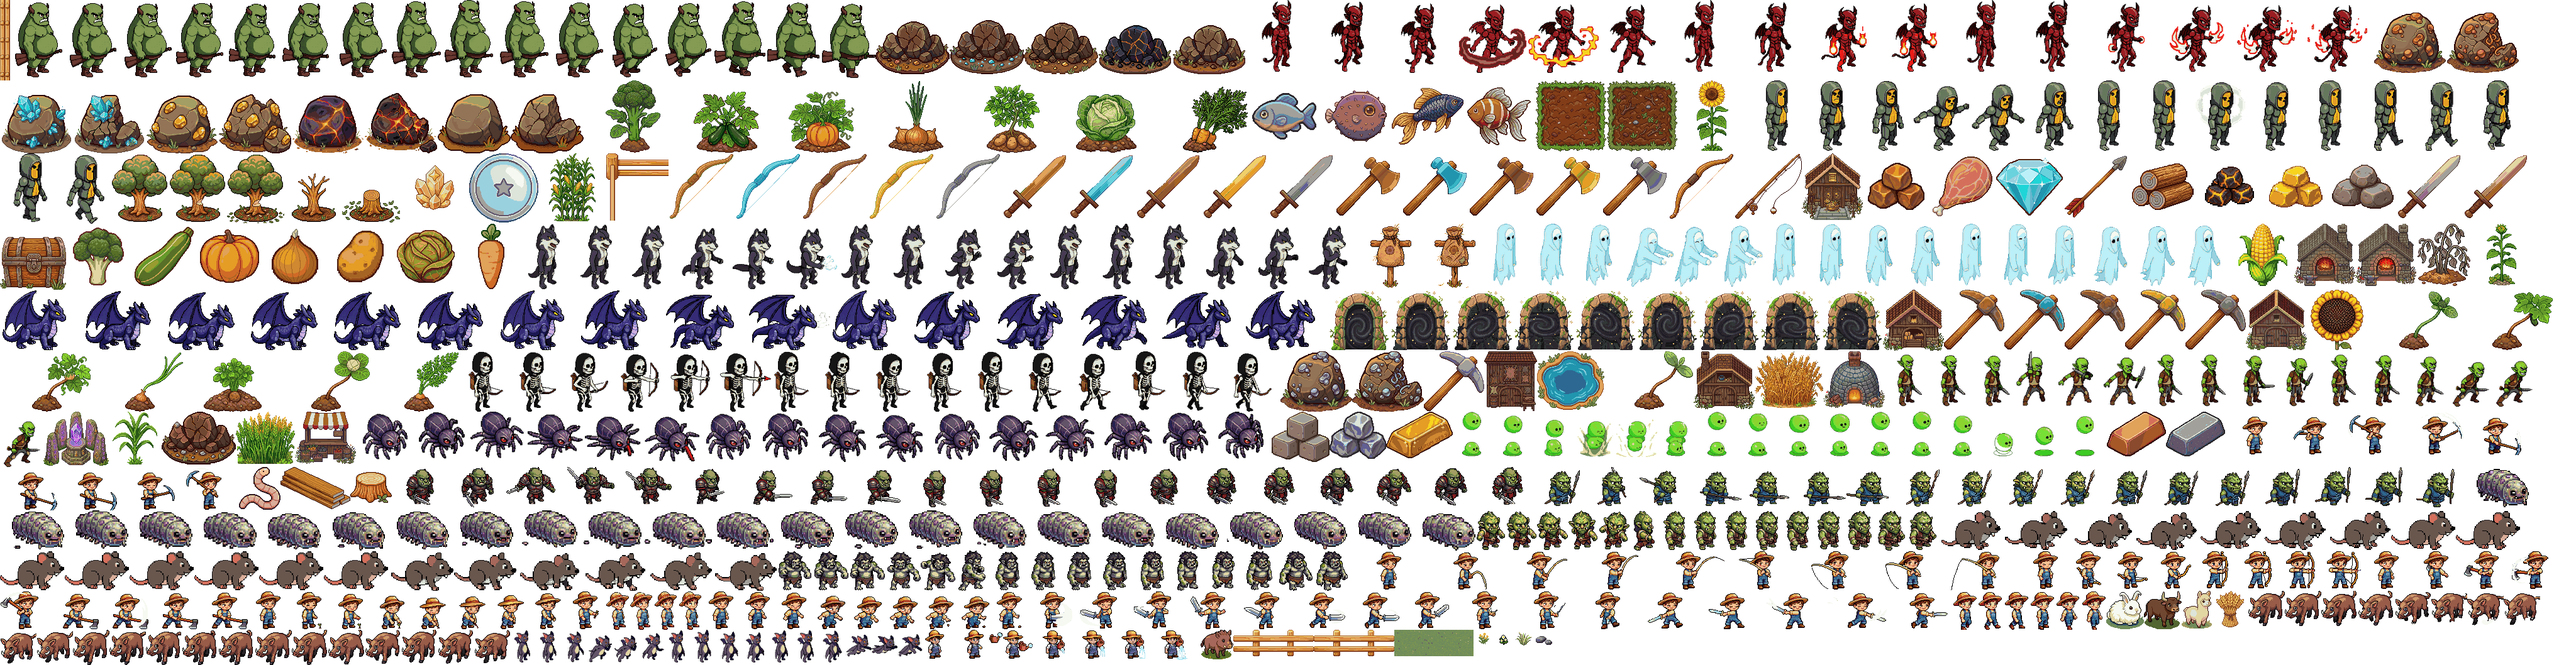
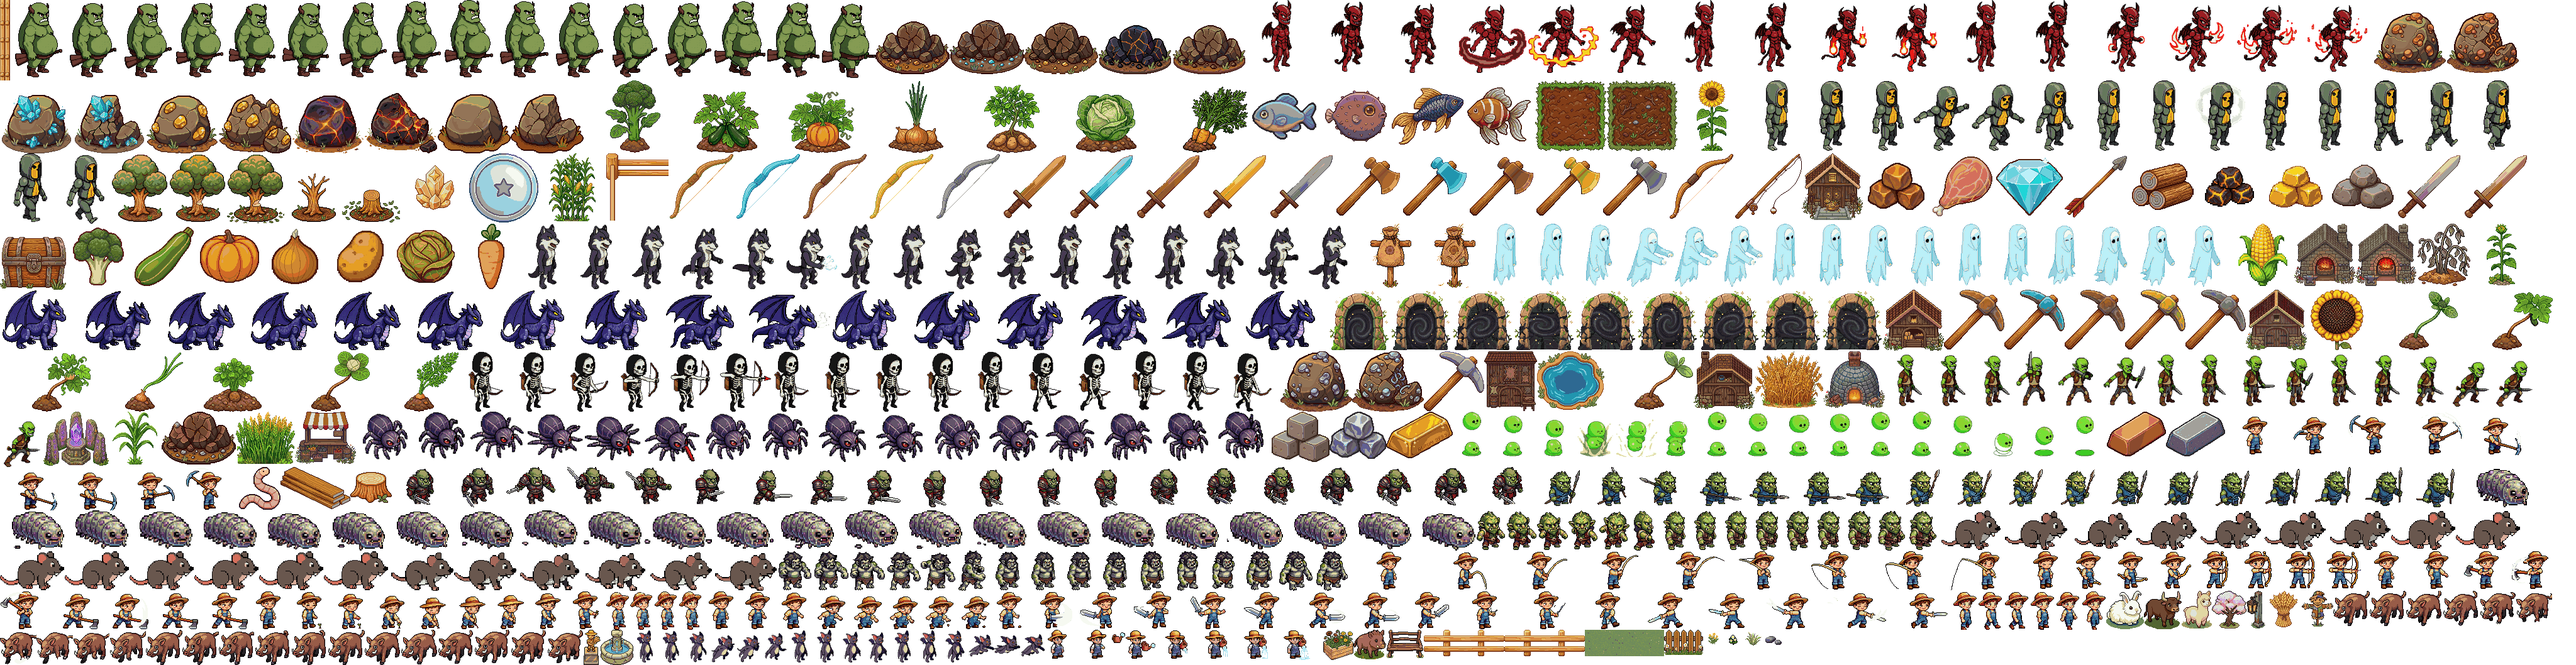
deploy lun 10/08/2026 13:31:54,74

Changed region(s): [[0.0, 0.9357, 0.6875, 1.0], [0.8438, 0.8733, 1.0, 0.9669]]

diff --git a/public/game/farm.js b/public/game/farm.js
@@ -303,7 +303,12 @@ class FarmScene extends Phaser.Scene {
     // clic: si pegás a un objeto, caminá hacia él e interactuá; si no, movete al punto
     this.input.on("pointerdown", (pt) => {
       if (pt.rightButtonDown()) {
-        if (GF.uiOpen || GF.editMode) return;
+        if (GF.editMode) {   // en edición el clic derecho levanta el adorno que haya abajo (vuelve a la bolsa)
+          const ad = this.adornoEnPunto(pt.worldX, pt.worldY);
+          if (ad) this.levantarAdorno(ad);
+          return;
+        }
+        if (GF.uiOpen) return;
         const wx = pt.worldX, wy = pt.worldY;
         for (const pl of this.plots) {
           if (Math.abs(wx - pl.cx) < T / 2 && Math.abs(wy - pl.by) < T / 2) {
@@ -313,8 +318,12 @@ class FarmScene extends Phaser.Scene {
         }
         return;
       }
-      if (GF.editMode) {   // modo edición: agarrar objeto, parcela o laguna bajo el cursor
+      if (GF.editMode) {   // modo edición: agarrar adorno, objeto, parcela o laguna bajo el cursor
         const wx = pt.worldX, wy = pt.worldY; let hit = null, bd = 1e9;
+        // los adornos van PRIMERO: son chicos y suelen quedar encima de una parcela o pegados
+        // a un edificio, así que si no se miran antes nunca se los podría agarrar.
+        const ad = this.adornoEnPunto(wx, wy);
+        if (ad) { this.dragDeco = ad; return; }
         for (const o of this.objs) { if (o.type === "fish") continue; if (this.hitsSprite(o.sprite, wx, wy)) { const d = Math.hypot(o.cx - wx, o.by - wy); if (d < bd) { bd = d; hit = o; } } }
         if (hit) { hit.origCx = hit.cx; hit.origBy = hit.by; this.dragObj = hit; return; }
         for (const pl of this.plots) { if (Math.abs(wx - pl.cx) < T / 2 && Math.abs(wy - pl.by) < T / 2) { this.dragPlot = pl; return; } }
@@ -380,7 +389,14 @@ class FarmScene extends Phaser.Scene {
         return;
       }
       if (!this.editHl) this.editHl = this.add.rectangle(0, 0, T, T, 0x7ec95a, 0.35).setOrigin(0, 1).setDepth(99998);
-      if (this.dragObj) {
+      if (this.dragDeco) {
+        const a = this.dragDeco;
+        a.g.setPosition(pt.worldX, pt.worldY).setDepth(99999);
+        const col = Phaser.Math.Clamp(Math.floor(pt.worldX / T), 0, GF.COLS - 1);
+        const row = Phaser.Math.Clamp(Math.floor(pt.worldY / T), 0, GF.ROWS - 1);
+        this.editHl.setPosition(col * T, (row + 1) * T).setSize(T, T)
+          .setFillStyle(this.celdaLibreAdorno(col, row, a.i) ? 0x7ec95a : 0xd9534f, 0.4).setVisible(true);
+      } else if (this.dragObj) {
         const o = this.dragObj;
         o.sprite.setPosition(pt.worldX, pt.worldY).setDepth(99999);
         if (o.shadow) o.shadow.setPosition(pt.worldX, pt.worldY - 3);
@@ -431,7 +447,22 @@ class FarmScene extends Phaser.Scene {
       this.clickHit = null; this.clickPond = false;
       // al soltar el clic sostenido, el granjero sigue caminando hasta el último punto señalado
       if (this.hold) { if (!GF.CAM_PAN && this.hold.active && this.holdPend) { const p = this.holdPend; this.holdPend = null; this.holdSeek(p.x, p.y); } this.hold = null; }
-      if (!GF.editMode) { this.dragObj = this.dragPlot = null; this.dragPond = false; return; }
+      if (!GF.editMode) { this.dragObj = this.dragPlot = this.dragDeco = null; this.dragPond = false; return; }
+      // soltar un ADORNO
+      if (this.dragDeco) {
+        const a = this.dragDeco; this.dragDeco = null;
+        const col = Phaser.Math.Clamp(Math.floor(pt.worldX / T), 0, GF.COLS - 1);
+        const row = Phaser.Math.Clamp(Math.floor(pt.worldY / T), 0, GF.ROWS - 1);
+        if (!this.celdaLibreAdorno(col, row, a.i)) {
+          a.g.setPosition(a.cx, a.by).setDepth(a.by);
+          toast("Ahí ya hay algo — elegí otra celda"); return;
+        }
+        const d = (G.decos || [])[a.i];
+        if (d) { d.col = col; d.row = row; }
+        this.syncAdornos();
+        if (typeof saveFarm === "function") saveFarm(true);
+        return;
+      }
       // soltar una PARCELA
       if (this.dragPlot) {
         const pl = this.dragPlot; this.dragPlot = null;
@@ -1374,10 +1405,17 @@ class FarmScene extends Phaser.Scene {
   }
 
   /* ---- ADORNOS DE LA GRANJA (10/8) -------------------------------------------
-     El arte definitivo va en la Fase 6; por ahora cada adorno se dibuja por código, con la
-     misma paleta cálida de los edificios, para que el sistema se pueda probar entero
-     (comprar, colocar, guardar, levantar) sin depender de PixelLab. */
+     Ya tienen arte propio de PixelLab (deco_<id> en el atlas). Si por lo que sea falta
+     el sprite, cae al dibujo por código de más abajo, que es el que se usó mientras se
+     probaba el sistema (comprar, colocar, guardar, levantar). */
   dibujarAdorno(id, x, y) {
+    // sprite definitivo: se apoya en el suelo (origen abajo-centro) y se ordena por Y como todo lo demás
+    if (this.textures.exists("deco_" + id)) {
+      const alto = DECO_ALTO[id] || 30;
+      const im = this.add.image(x, y, "deco_" + id).setOrigin(0.5, 1).setDepth(y);
+      im.setDisplaySize(Math.round(im.width * alto / im.height), alto);
+      return im;
+    }
     const g = this.add.graphics().setDepth(y);
     const MAD = 0x8a5a33, MAD2 = 0xa8712f, OSC = 0x241505, PIE = 0x8b8f8c, VER = 0x55733f;
     if (id === "valla") {
@@ -1424,17 +1462,43 @@ class FarmScene extends Phaser.Scene {
     g.setPosition(x, y);
     return g;
   }
+  // ¿el adorno entra en esa celda? (ignora es el índice del que se está moviendo, que no se pisa a sí mismo)
+  celdaLibreAdorno(col, row, ignora) {
+    const T = GF.TILE;
+    if (col < 1 || row < 2 || col >= GF.COLS - 1 || row >= GF.ROWS - 1) return false;
+    const x = (col + 0.5) * T, y = (row + 0.9) * T;
+    if (GF.blockedAt(x, y, 6)) return false;
+    if (GF.PLOTS.some(p => p.col === col && p.row === row)) return false;
+    if ((G.decos || []).some((d, j) => j !== ignora && d.col === col && d.row === row)) return false;
+    if ((G.chests || []).some(c => c.col === col && c.row === row)) return false;
+    return true;
+  }
+  // el adorno que esté bajo el cursor, si hay alguno (para agarrarlo en modo edición)
+  adornoEnPunto(wx, wy) {
+    const T = GF.TILE;
+    let best = null, bd = 1e9;
+    (this.adornos || []).forEach(a => {
+      const alto = (typeof DECO_ALTO !== "undefined" && DECO_ALTO[a.id]) || 30;
+      const hw = (a.g.displayWidth > 0 ? a.g.displayWidth / 2 : T * 0.5) + 3;
+      if (wx < a.cx - hw || wx > a.cx + hw) return;
+      if (wy > a.by + 5 || wy < a.by - alto - 5) return;
+      const d = Math.hypot(a.cx - wx, a.by - wy);
+      if (d < bd) { bd = d; best = a; }
+    });
+    return best;
+  }
+  // clic derecho en modo edición: el adorno vuelve a la bolsa (así se puede volver a colocar)
+  levantarAdorno(a) {
+    if (typeof decoSacar !== "function" || !decoSacar(a.i)) return;
+    this.dragDeco = null;
+    this.syncAdornos();
+    if (typeof syncEditDeco === "function") syncEditDeco();   // el selector de la barra de edición vuelve a contarlo
+    toast(((typeof DECO_DEF !== "undefined" && DECO_DEF[a.id]) ? DECO_DEF[a.id].label : "Adorno") + " guardado en la bolsa");
+    if (typeof saveFarm === "function") saveFarm(true);
+  }
   // busca una celda libre para dejar un adorno recién comprado (no pisa nada de lo que ya hay)
   huecoParaAdorno() {
-    const T = GF.TILE;
-    const ocupada = (col, row) => {
-      const x = (col + 0.5) * T, y = (row + 0.9) * T;
-      if (GF.blockedAt(x, y, 6)) return true;
-      if (GF.PLOTS.some(p => p.col === col && p.row === row)) return true;
-      if ((G.decos || []).some(d => d.col === col && d.row === row)) return true;
-      if ((G.chests || []).some(c => c.col === col && c.row === row)) return true;
-      return false;
-    };
+    const ocupada = (col, row) => !this.celdaLibreAdorno(col, row, -1);
     const c0 = Math.floor(GF.COLS / 2), r0 = Math.floor(GF.ROWS / 2);
     for (let rad = 0; rad < Math.max(GF.COLS, GF.ROWS); rad++) {
       for (let dr = -rad; dr <= rad; dr++) for (let dc = -rad; dc <= rad; dc++) {

diff --git a/public/game/state.js b/public/game/state.js
@@ -1184,6 +1184,12 @@ const DECO_DEF = {
   estatua:        { label: "Estatua dorada",    plata: 0,     golden: 60, ds: "Para presumir. Se paga en $Golden." },
   arbolito:       { label: "Cerezo en flor",    plata: 0,     golden: 90, ds: "Un árbol ornamental. No se puede talar." },
 };
+// alto en pantalla de cada adorno, en píxeles (el tile mide 42). El ancho sale solo,
+// respetando la proporción del sprite. Con esto un farol no queda del porte de un árbol.
+var DECO_ALTO = {
+  valla: 24, flores: 24, farol: 40, banco: 26,
+  espantapajaros: 48, fuente: 30, estatua: 36, arbolito: 46,
+};
 var DECO_MAX = 40;   // cuántos adornos se pueden tener colocados a la vez
 function decoTengo(id) { G.decoBolsa = G.decoBolsa || {}; return G.decoBolsa[id] || 0; }
 function decoPuestos() { return (G.decos || []).length; }

diff --git a/public/game/boot.js b/public/game/boot.js
@@ -115,8 +115,8 @@ class BootScene extends Phaser.Scene {
   preload() {
     // ATLAS: todos los sprites del mundo en 2 archivos (mucho más liviano para el server free).
     // Si el atlas no llega, ensureAll() baja los archivos sueltos como respaldo.
-    this.load.image("__atlas", "assets/atlas.png?v=28");
-    this.load.json("__atlasmap", "assets/atlas.json?v=28");
+    this.load.image("__atlas", "assets/atlas.png?v=29");
+    this.load.json("__atlasmap", "assets/atlas.json?v=29");
 
     // No hay barra propia: la pantalla de carga es UNA sola, la del HTML, y le pasamos el avance.
     // (Antes había dos barras seguidas y el juego "aparecía" antes de estar listo.)

diff --git a/public/game/ui.js b/public/game/ui.js
@@ -1533,7 +1533,7 @@ function ponerAdornoElegido() {
   if (!decoColocar(sel.value, pt.col, pt.row)) return;
   sc.syncAdornos();
   syncEditDeco();
-  toast(DECO_DEF[sel.value].label + " colocado — arrastralo a donde quieras");
+  toast(DECO_DEF[sel.value].label + " colocado — arrastralo a donde quieras (clic derecho lo levanta)");
 }
 
   window.setEditMode = (on) => {

diff --git a/tools/build-adornos.py b/tools/build-adornos.py
@@ -1,0 +1,83 @@
+#!/usr/bin/env python3
+"""
+Golden Farm · integrar los ADORNOS de PixelLab al juego.                (10/08/2026)
+
+Toma lo que bajó descargar_adornos.ps1 (un PNG por adorno, de 64x64 con mucho aire
+alrededor) y deja en assets/farm los archivos que el juego busca:
+
+    deco_valla · deco_flores · deco_farol · deco_banco
+    deco_espantapajaros · deco_fuente · deco_estatua · deco_arbolito
+
+farm.js los usa si existen (dibujarAdorno) y si no cae al dibujo por código de antes,
+así que esto no puede romper nada: en el peor caso el adorno se ve como se veía.
+
+Dos cosas que hace:
+
+1. RECORTA EL AIRE. PixelLab centra el objeto en el lienzo y deja borde transparente.
+   Si no se recorta, el adorno queda flotando arriba de donde uno lo puso.
+
+2. GUARDA AL DOBLE DEL TAMAÑO EN PANTALLA. El alto real lo fija DECO_ALTO en state.js;
+   acá se guarda a 2x de eso, que es nítido de sobra y pesa una fracción en el atlas.
+
+Uso:
+    python3 tools/build-adornos.py            # procesa e informa
+    python3 tools/build-adornos.py --check    # solo dice qué encontraría
+"""
+import os
+import sys
+
+from PIL import Image
+
+RAIZ = os.path.dirname(os.path.dirname(os.path.abspath(__file__)))
+ORIGEN = os.path.join(RAIZ, "..", "pixellab_adornos")
+FARM = os.path.join(RAIZ, "public", "assets", "farm")
+
+# alto con el que se DIBUJA cada adorno en el juego (DECO_ALTO en state.js).
+# Se guarda al doble. Si cambiás uno allá, cambialo acá y volvé a correr esto.
+TAM = {
+    "valla": 24, "flores": 24, "farol": 40, "banco": 26,
+    "espantapajaros": 48, "fuente": 30, "estatua": 36, "arbolito": 46,
+}
+
+
+def main():
+    check = "--check" in sys.argv
+    listos, faltan = [], []
+
+    for nombre, alto in TAM.items():
+        origen = os.path.join(ORIGEN, "deco_%s.png" % nombre)
+        if not os.path.isfile(origen):
+            faltan.append(nombre)
+            print("  %-15s SALTEADO — no está %s" % (nombre, os.path.basename(origen)))
+            continue
+
+        im = Image.open(origen).convert("RGBA")
+        caja = im.getbbox()
+        if not caja:
+            faltan.append(nombre)
+            print("  %-15s SALTEADO — la imagen está vacía" % nombre)
+            continue
+        im = im.crop(caja)
+
+        destino = alto * 2
+        if im.height > destino:
+            ancho = max(1, round(im.width * destino / im.height))
+            im = im.resize((ancho, destino), Image.LANCZOS)
+
+        if not check:
+            im.save(os.path.join(FARM, "deco_%s.png" % nombre))
+        listos.append(nombre)
+        print("  %-15s %dx%d  (en pantalla %d px de alto)" % (nombre, im.width, im.height, alto))
+
+    if check:
+        print("\n(--check: no se escribió nada)")
+        return
+
+    print("\n%d adornos integrados" % len(listos))
+    if faltan:
+        print("Sin integrar: " + ", ".join(faltan))
+    print("Ahora: python3 tools/build-atlas.py  y subir el ?v=NN del atlas en boot.js")
+
+
+if __name__ == "__main__":
+    main()

diff --git a/tools/build-atlas.py b/tools/build-atlas.py
@@ -31,7 +31,7 @@ BOOT = os.path.join(RAIZ, "public", "game", "boot.js")
 
 # Los iconos de recursos, cultivos, peces y monedas también van al atlas: el juego los
 # usa para el "premio" que sale volando cuando talás, picás o cosechás.
-EXTRA = ["res_", "crop_", "fish_", "coin_", "animal_"]
+EXTRA = ["res_", "crop_", "fish_", "coin_", "animal_", "deco_"]
 
 # Edificios que antes no tenían arte y por eso nunca entraron al atlas (9/8).
 SUELTOS = ["establo", "curtiduria", "ofrendas"]

diff --git a/CHANGELOG.md b/CHANGELOG.md
@@ -1596,10 +1596,31 @@ Van al atlas como todo lo demás (`?v=28`), y los provisorios quedaron respaldad
 Falta de la Fase 6: adornos, mazo, efectos por arma, íconos de materiales, las 20 piezas de
 armadura y los cosméticos.
 
+### Fase 6 (tercera parte) — Los 8 adornos de la Tienda, definitivos
+
+Eran lo último que quedaba dibujado por código. Ahora los ocho tienen arte de PixelLab, con la
+misma paleta cálida de los edificios: **valla** de tablones con pasto en la base, **cantero** de
+flores amarillas en cajón de madera, **farol** de pueblo con luz cálida, **banco** de tablones
+con respaldo, **espantapájaros** de sombrero de paja y brazos abiertos, **fuente** redonda de
+piedra, **estatua** dorada sobre pedestal y **cerezo** en flor.
+
+El alto en pantalla de cada uno lo fija `DECO_ALTO` (state.js) y el ancho sale solo, respetando
+la proporción del sprite: así el farol no queda del porte de un árbol y la valla no tapa media
+parcela. `dibujarAdorno` usa el sprite si está y, si falta, cae al dibujo por código de antes,
+o sea que no hay forma de que esto rompa nada. Los arma `tools/build-adornos.py` y van al atlas
+(`?v=29`, 549 sprites).
+
+**Bug que salió de paso:** al colocar un adorno el cartel decía *"arrastralo a donde quieras"*,
+pero no existía el código para agarrarlos — ni para moverlos ni para sacarlos. Una vez puesto un
+adorno quedaba clavado ahí para siempre y ocupando uno de los 40 lugares. Ahora en modo edición
+se arrastran como cualquier objeto (celda verde libre / roja ocupada, y si está ocupada vuelve a
+su lugar) y con **clic derecho** vuelven a la bolsa. Los adornos se miran ANTES que el resto al
+buscar qué agarraste, porque son chicos y suelen quedar encima de una parcela.
+
 ---
 
 ## Pendientes conocidos
-*(actualizado el 9/8)*
+*(actualizado el 10/8)*
 
 ### Antes de publicar
 - Deploy del 9/8 hecho: ya está todo en vivo.
@@ -1607,10 +1628,9 @@ armadura y los cosméticos.
   esto en 1 los tiempos son de segundos y el juego regala materiales.
 
 ### Arte pendiente
-- **11 criaturas del bestiario**: generadas en PixelLab, faltan bajar los frames e integrarlas
-  (a la araña todavía le falta la animación de ataque).
-- **4 animales del Establo** definitivos (hoy son los provisorios dibujados por código) y sus
-  materiales: fibra, pelaje, cuero, colmillo.
+- Las **11 criaturas del bestiario** y los **8 adornos** ya están integrados (10/8).
+- **Materiales de los animales**: fibra, pelaje, cuero, colmillo (los 4 animales ya están hechos).
+- **Mazo**, efectos y animaciones por arma, y la **esencia oscura**.
 - **20 piezas de armadura** de la Curtiduría.
 - **Cosméticos**: skins, decoraciones y la mascota.
 - Íconos oficiales de la Espada de Madera y el Pico de Hierro (hoy son derivados).
